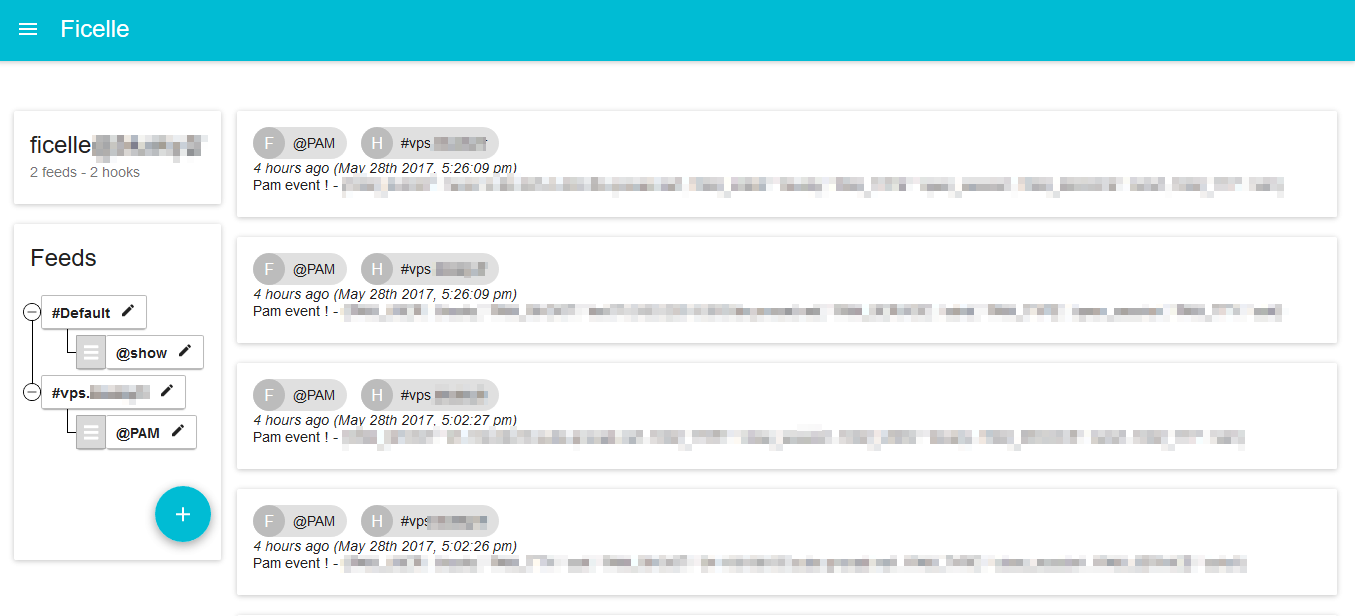
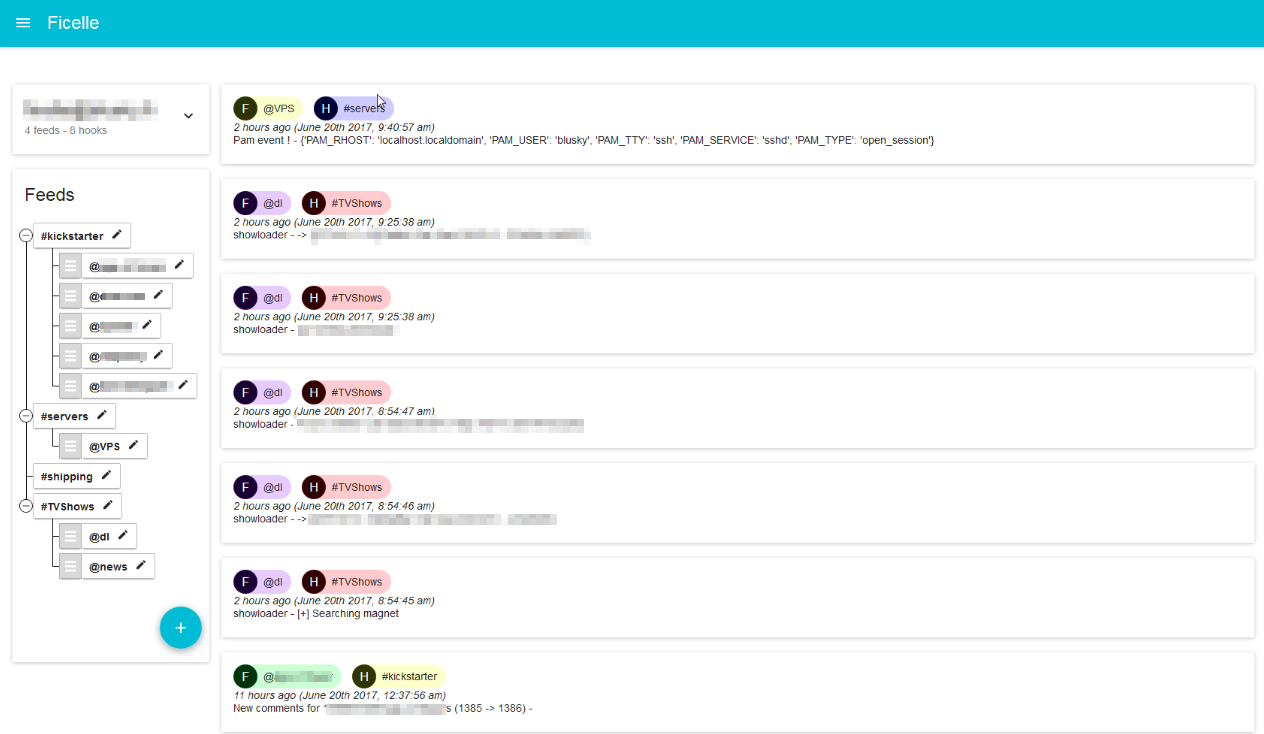
.

Changed region(s): [[0.0, 0.2159, 0.9565, 0.987], [0.0, 0.0, 1.0, 0.3393]]

diff --git a/react/src/components/directfeed/Item.js b/react/src/components/directfeed/Item.js
@@ -3,6 +3,8 @@ import PropTypes from 'prop-types';
 import moment from 'moment';
 import {Avatar, Card, CardText, Chip} from "material-ui";
 import Color from 'color'
+import {connect} from "react-redux";
+
 
 class Item extends Component {
   getLightColor(id) {
@@ -25,11 +27,21 @@ class Item extends Component {
           <CardText>
           <div>
             <div style={{display: 'flex',flexWrap: 'wrap', margin: 'auto'}}>
-              <Chip style={{marginRight: '1em'}} backgroundColor={this.getLightColor(this.props.item.hook.id)}>
+              <Chip
+                style={{marginRight: '1em'}}
+                backgroundColor={this.getLightColor(this.props.item.hook.id)}
+                onTouchTap={() => this.props.changeFilter(this.props.item.hook.id)}
+                onRequestDelete={this.props.filters.id == this.props.item.hook.id ? this.props.removeFilter : false}
+              >
                 <Avatar size={16} backgroundColor={this.getDarkColor(this.props.item.hook.id)}>F</Avatar>
                 @{this.props.item.hook.title}
               </Chip>
-              <Chip style={{marginRight: '1em'}} backgroundColor={this.getLightColor(this.props.item.feed.id)}>
+              <Chip
+                style={{marginRight: '1em'}}
+                backgroundColor={this.getLightColor(this.props.item.feed.id)}
+                onTouchTap={() => this.props.changeFilter(this.props.item.feed.id)}
+                onRequestDelete={this.props.filters.id == this.props.item.feed.id ? this.props.removeFilter : false}
+              >
                 <Avatar size={16} backgroundColor={this.getDarkColor(this.props.item.feed.id)}>H</Avatar>
                 #{this.props.item.feed.title}
               </Chip>
@@ -57,4 +69,25 @@ Item.propTypes = {
   item: PropTypes.object.isRequired
 };
 
-export default Item
+
+const mapStateToProps = (state, ownProps) => {
+  return {
+    filters: state.ficelle.filters,
+  }
+};
+
+const mapDispatchToProps = (dispatch, ownProps) => {
+  return {
+    removeFilter:() => {
+      dispatch({type: "FILTERS_REMOVE"})
+    },
+    changeFilter:(id) => {
+      dispatch({type: "FILTERS_CHANGE", id})
+    },
+  }
+};
+
+export default connect(
+  mapStateToProps,
+  mapDispatchToProps
+)(Item);

diff --git a/react/src/components/FicelleWebSocket.js b/react/src/components/FicelleWebSocket.js
@@ -1,8 +1,9 @@
 import React from 'react';
 import Websocket from 'react-websocket';
 import {BrowserNotification} from 'browser-notification';
+import {connect} from "react-redux";
 
-export default class FicelleWebSocket extends React.Component {
+class FicelleWebSocket extends React.Component {
   state = {
     notifier: undefined
   };
@@ -10,7 +11,14 @@ export default class FicelleWebSocket extends React.Component {
   handleData(data) {
     const data_decoded = JSON.parse(data);
     console.log(data_decoded);
-    this.state.notifier.notify(`@${data_decoded.feed.title} #${data_decoded.hook.title}`, {body: data_decoded.data})
+    this.props.api_list();
+    if(
+      (this.props.filters.id === undefined) ||
+      (this.props.filters.id === data_decoded.hook.id) ||
+      (this.props.filters.id === data_decoded.feed.id)
+    ) {
+      this.state.notifier.notify(`@${data_decoded.feed.title} #${data_decoded.hook.title}`, {body: data_decoded.data})
+    }
   }
 
   webSocketUri() {
@@ -31,3 +39,22 @@ export default class FicelleWebSocket extends React.Component {
     );
   }
 }
+
+const mapStateToProps = (state, ownProps) => {
+  return {
+    filters: state.ficelle.filters,
+  }
+};
+
+const mapDispatchToProps = (dispatch, ownProps) => {
+  return {
+    api_list:() => {
+      dispatch({type: "ITEM_LIST_REQUESTED"})
+    },
+  }
+};
+
+export default connect(
+  mapStateToProps,
+  mapDispatchToProps
+)(FicelleWebSocket);

diff --git a/react/src/components/directfeed/Feed.js b/react/src/components/directfeed/Feed.js
@@ -13,9 +13,17 @@ class Feed extends Component {
   render() {
     return (
       <div>
-        {this.props.items.items.map(item => (
-          <Item key={item.id} item={item} />
-        ))}
+        {
+          this.props.items.items
+            .filter(item => (
+              (this.props.filters.id === undefined) ||
+              (this.props.filters.id === item.hook.id) ||
+              (this.props.filters.id === item.feed.id)
+            ))
+            .map(item => (
+              <Item key={item.id} item={item} />
+            ))
+        }
       </div>
     )
   }
@@ -29,6 +37,7 @@ Feed.propTypes = {
 const mapStateToProps = (state, ownProps) => {
   return {
     items: state.ficelle.items,
+    filters: state.ficelle.filters,
   }
 };
 

diff --git a/react/src/reducers/index.js b/react/src/reducers/index.js
@@ -10,6 +10,7 @@ import hooksAvailable from "./hooksAvailable";
 import hookEdit from "./hookEdit";
 import feedEdit from "./feedEdit";
 import hookTypes from "./hookTypes";
+import filters from "./filters";
 
 const reducer = combineReducers({
   user,
@@ -22,7 +23,8 @@ const reducer = combineReducers({
   hookTypes,
   hookCreation,
   hooksAvailable,
-  items
+  items,
+  filters
 });
 
 export default reducer

diff --git a/react/src/reducers/filters.js b/react/src/reducers/filters.js
@@ -1,0 +1,13 @@
+const filters = (state = {id: undefined}, action) => {
+  switch (action.type) {
+    case "FILTERS_CHANGE":
+      return {id: action.id};
+    case "FILTERS_REMOVE":
+      return {id: undefined};
+    default:
+      return state;
+  }
+};
+
+export default filters
+
